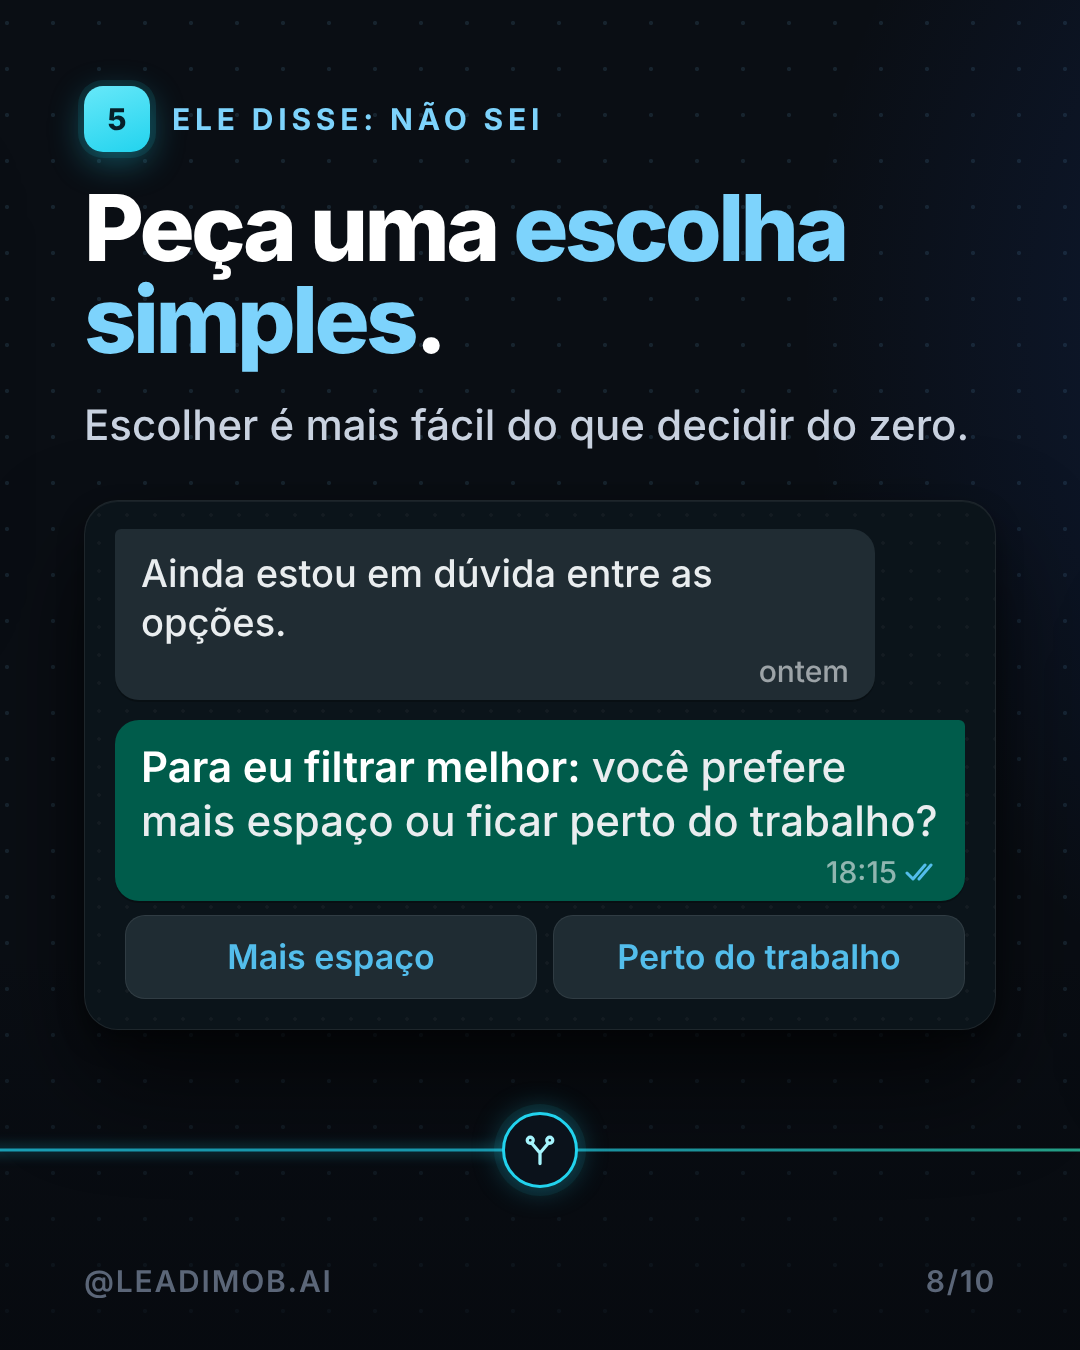
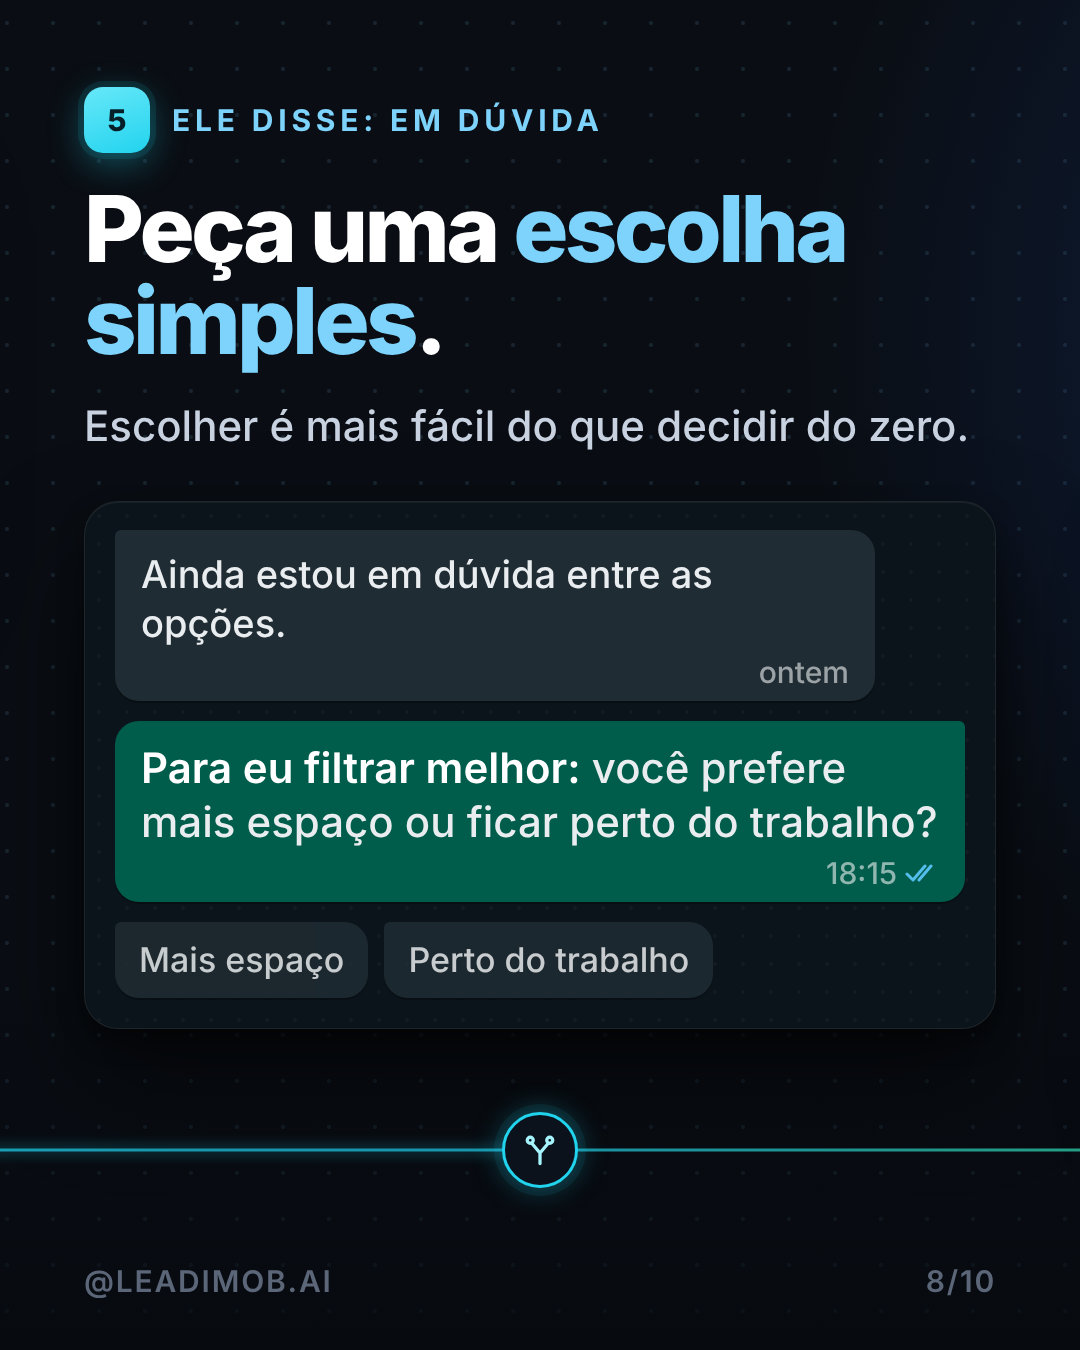
11/10: carrossel polido (em crítica final, sem aprovação)
Claude-Session: https://claude.ai/code/session_0145jJKuZvfRBYxMPxCVaBcw

diff --git a/instagram/2026-10-11/src/c1-index.html b/instagram/2026-10-11/src/c1-index.html
@@ -102,9 +102,9 @@ body{background:#0A0E14;width:10800px;height:1350px;overflow:hidden;font-family:
  </div>
  <div class="h1" style="margin-top:64px;font-size:150px;white-space:nowrap">Retome sem<br><span class="hl">cobrar.</span></div>
  <div class="p" style="margin-top:40px;font-size:44px;color:#E2E8F0;max-width:860px">Mensagens para o cliente que sumiu, prontas para adaptar.</div>
- <div style="margin-top:40px;width:800px;margin-left:auto">
-  <div class="bub bout" style="font-size:40px;max-width:820px">Lembrei de você: entrou um apartamento com varanda, do jeito que você pediu. Quer ver?<div class="bt">10:05 <svg class="tk" viewBox="0 0 34 22"><path d="M2 12l6 6L20 4M14 18l12-14" stroke="#53BDEB" stroke-width="3" fill="none" stroke-linecap="round" stroke-linejoin="round"/></svg></div></div>
-  <div class="bub bin" style="font-size:40px;margin-top:18px;margin-left:0">Manda!<div class="bt">10:07</div></div>
+ <div style="margin-top:40px">
+  <div class="bub bout" style="font-size:40px;max-width:800px">Lembrei de você: entrou um apartamento com varanda, do jeito que você pediu. Quer ver?<div class="bt">10:05 <svg class="tk" viewBox="0 0 34 22"><path d="M2 12l6 6L20 4M14 18l12-14" stroke="#53BDEB" stroke-width="3" fill="none" stroke-linecap="round" stroke-linejoin="round"/></svg></div></div>
+  <div class="bub bin" style="font-size:40px;margin-top:18px;margin-left:0">Manda!<div class="bt" style="font-size:30px">10:07</div></div>
  </div>
  <div class="foot"><span>@LEADIMOB.AI</span><span style="color:#7DD3FC">ARRASTE →</span></div></div>
 
@@ -126,11 +126,11 @@ body{background:#0A0E14;width:10800px;height:1350px;overflow:hidden;font-family:
  <div class="p">Algo novo para ele, e uma pergunta fácil de responder.</div>
  <div style="margin-top:50px">
   <div class="ann" style="color:#A5F3FC;margin-left:40px">Motivo novo</div>
-  <div style="width:1px;height:34px;background:#22D3EE;margin:14px 0 0 60px"></div>
+  <div style="position:relative;z-index:3;width:2px;height:96px;background:#22D3EE;margin:14px 0 -62px 96px"></div>
   <div class="wa" style="padding:30px 34px">
-   <div class="bub bout" style="font-size:44px;line-height:1.3;padding:24px 30px 16px;max-width:none;margin-left:0;outline:1px solid rgba(34,211,238,.0)"><span style="box-shadow:inset 0 0 0 0">Consegui a planta do apartamento que você pediu.</span> <span style="color:#fff;font-weight:600">Te mando agora?</span><div class="bt">14:20 <svg class="tk" viewBox="0 0 34 22"><path d="M2 12l6 6L20 4M14 18l12-14" stroke="#53BDEB" stroke-width="3" fill="none" stroke-linecap="round" stroke-linejoin="round"/></svg></div></div>
+   <div class="bub bout" style="font-size:44px;line-height:1.3;padding:24px 30px 16px;max-width:none;margin-left:0;outline:1px solid rgba(34,211,238,.0)"><span style="color:#fff;font-weight:600">Consegui a planta do apartamento que você pediu.</span> Te mando agora?<div class="bt">14:20 <svg class="tk" viewBox="0 0 34 22"><path d="M2 12l6 6L20 4M14 18l12-14" stroke="#53BDEB" stroke-width="3" fill="none" stroke-linecap="round" stroke-linejoin="round"/></svg></div></div>
   </div>
-  <div style="width:1px;height:34px;background:rgba(201,210,224,.6);margin:0 80px 14px auto"></div>
+  <div id="pqline" style="position:relative;z-index:3;width:2px;height:124px;background:rgba(201,210,224,.7);margin:-90px 300px 14px auto"></div>
   <div class="ann" style="color:#C9D2E0;justify-content:flex-end;margin-right:40px">Pergunta fácil</div>
  </div>
  <div class="foot"><span>@LEADIMOB.AI</span><span>3/10</span></div></div>
@@ -181,21 +181,22 @@ body{background:#0A0E14;width:10800px;height:1350px;overflow:hidden;font-family:
 
 <!-- 8 retomada 5 -->
 <div class="sl" style="left:7560px">
- <div class="ttl"><div class="num">5</div><div class="kick">Ele disse: não sei</div></div>
+ <div class="ttl"><div class="num">5</div><div class="kick">Ele disse: em dúvida</div></div>
  <div class="h2">Peça uma <span class='hl'>escolha simples</span>.</div>
  <div class="p">Escolher é mais fácil do que decidir do zero.</div>
  <div class="wa conv">
   <div class="bub bin">Ainda estou em dúvida entre as opções.<div class="bt">ontem</div></div>
-  <div class="bub bout"><span class='mv'>Para eu filtrar melhor:</span> você prefere mais espaço ou ficar perto do trabalho?<div class="bt">18:15 <svg class="tk" viewBox="0 0 34 22"><path d="M2 12l6 6L20 4M14 18l12-14" stroke="#53BDEB" stroke-width="3" fill="none" stroke-linecap="round" stroke-linejoin="round"/></svg></div></div><div class='qr'><div class='rb'>Mais espaço</div><div class='rb'>Perto do trabalho</div></div>
+  <div class="bub bout"><span class='mv'>Para eu filtrar melhor:</span> você prefere mais espaço ou ficar perto do trabalho?<div class="bt">18:15 <svg class="tk" viewBox="0 0 34 22"><path d="M2 12l6 6L20 4M14 18l12-14" stroke="#53BDEB" stroke-width="3" fill="none" stroke-linecap="round" stroke-linejoin="round"/></svg></div></div><div style='display:flex;gap:16px;margin-top:20px'><div class='bub bin' style='font-size:34px;padding:16px 24px;opacity:.85'>Mais espaço</div><div class='bub bin' style='font-size:34px;padding:16px 24px;opacity:.85'>Perto do trabalho</div></div>
  </div>
  <div class="foot"><span>@LEADIMOB.AI</span><span>8/10</span></div></div>
 <!-- 9 Leadimob -->
 <div class="sl" style="left:8640px">
  <div class="ttl"><div class="num"><svg width="34" height="34" viewBox="0 0 24 24"><path d="M12 3c5 0 9 3.600 9 8.200S17 19.500 12 19.500c-1 0-2-.15-2.900-.42L4.500 21l1.200-3.900C4 15.600 3 13.500 3 11.200 3 6.600 7 3 12 3z" fill="#06202A"/></svg></div><div class="kick">Onde a Leadimob entra</div></div>
  <div class="h2">A Leadimob retoma <span style="color:#6EE7B7">com contexto</span>.</div>
- <div class="p">No seu WhatsApp, com o que o cliente pediu. Quando ele responde, você assume.</div>
- <div class="wa chat"><div class="hd"><div class="lab" style="color:#6EE7B7"><i style="width:14px;height:14px;border-radius:50%;background:#34D399;display:block"></i>Follow-up</div><div class="st" style="display:flex;gap:14px"><span class="chip nt" style="padding:12px 20px">3 quartos</span><span class="chip nt" style="padding:12px 20px">Perto da escola</span></div></div><div class="bx">
-  <div class="bub bout">Oi, Marina! Separei no catálogo uma casa com quintal perto da escola. Quer agendar uma visita?<div class="bt">09:40 <svg class="tk" viewBox="0 0 34 22"><path d="M2 12l6 6L20 4M14 18l12-14" stroke="#53BDEB" stroke-width="3" fill="none" stroke-linecap="round" stroke-linejoin="round"/></svg></div></div>
+ <div class="p" style="margin-top:22px">No seu WhatsApp. Quando o cliente responde, você assume.</div>
+ <div class="wa chat" style="margin-top:40px"><div class="hd"><div class="lab" style="color:#6EE7B7"><i style="width:14px;height:14px;border-radius:50%;background:#34D399;display:block"></i>Follow-up</div><div class="st" style="display:flex;gap:14px"><span class="chip nt" style="padding:12px 20px">Quintal</span><span class="chip nt" style="padding:12px 20px">Perto da escola</span></div></div><div class="bx">
+  <div class="bub bin" style="font-size:36px;padding:18px 24px 12px;margin-bottom:20px">Precisa ser perto da escola.<div class="bt">há 6 dias</div></div>
+  <div class="bub bout">Oi, Marina! Separei no catálogo uma casa com quintal perto da escola. Quer visitar?<div class="bt">09:40 <svg class="tk" viewBox="0 0 34 22"><path d="M2 12l6 6L20 4M14 18l12-14" stroke="#53BDEB" stroke-width="3" fill="none" stroke-linecap="round" stroke-linejoin="round"/></svg></div></div>
  </div></div>
  <div class="foot"><span>@LEADIMOB.AI</span><span>9/10</span></div></div>
 

diff --git a/instagram/2026-10-11/carrossel/carrossel-editor.html b/instagram/2026-10-11/carrossel/carrossel-editor.html
@@ -312,7 +312,7 @@ input[type=range]{width:100%;accent-color:#6C5CE7;height:18px;cursor:pointer;}
     </div>
   </div>
 </div>
-<script id="deck-data" type="application/json">{"kit": "tech", "formato": "4:5", "paleta": {"bg": "#0A0E14", "fg": "#FFFFFF", "muted": "#8A93A3", "accent": "#22D3EE", "surface": "#141B28", "cream": "#F3F7FB"}, "handle": "@leadimob.ai", "slides": [{"tipo": "capa", "kicker": "RETOMADA · SALVE ESTE POST", "titulo": "Retome sem cobrar.", "sub": "Mensagens para o cliente que sumiu, prontas para adaptar."}, {"tipo": "conteudo", "kicker": "O QUE EVITAR", "titulo": "Cobrar resposta vira silêncio.", "sub": "Mensagem que só pede retorno não dá motivo para responder."}, {"tipo": "conteudo", "kicker": "A REGRA", "titulo": "Volte com um motivo.", "sub": "Consegui a planta do apartamento que você pediu. Te mando agora?"}, {"tipo": "conteudo", "kicker": "ELE DISSE: ESCOLA", "titulo": "Mostre uma opção que bate com o pedido.", "sub": "Achei uma casa na mesma rua da escola. Quer ver por dentro?"}, {"tipo": "conteudo", "kicker": "ELE DISSE: O BAIRRO", "titulo": "Conte uma novidade do bairro.", "sub": "Abriram um mercado e uma padaria na rua do apartamento. Quer passar lá de novo?"}, {"tipo": "conteudo", "kicker": "ELE DISSE: SEM TEMPO", "titulo": "Ofereça um horário livre.", "sub": "Reservei um horário depois do seu trabalho. Pode ser? Quinta · 18:30"}, {"tipo": "conteudo", "kicker": "ELE PERGUNTOU: PET", "titulo": "Traga a resposta da dúvida que ficou.", "sub": "Confirmei com o síndico: aceita, sim. Quer ver a área de lazer na visita?"}, {"tipo": "conteudo", "kicker": "ELE DISSE: NÃO SEI", "titulo": "Peça uma escolha simples.", "sub": "Para eu filtrar melhor: você prefere mais espaço ou ficar perto do trabalho?"}, {"tipo": "conteudo", "kicker": "ONDE A LEADIMOB ENTRA", "titulo": "A Leadimob retoma com contexto.", "sub": "No seu WhatsApp, com o que o cliente pediu. Quando ele responde, você assume."}, {"tipo": "cta", "titulo": "Qual retomada funciona com os seus clientes?", "acao": "Comente RETOMADA", "sub": "E conte qual mensagem você usa para voltar a conversar. Solicite uma demonstração — link na bio."}]}</script>
+<script id="deck-data" type="application/json">{"kit": "tech", "formato": "4:5", "paleta": {"bg": "#0A0E14", "fg": "#FFFFFF", "muted": "#8A93A3", "accent": "#22D3EE", "surface": "#141B28", "cream": "#F3F7FB"}, "handle": "@leadimob.ai", "slides": [{"tipo": "capa", "kicker": "RETOMADA · SALVE ESTE POST", "titulo": "Retome sem cobrar.", "sub": "Mensagens para o cliente que sumiu, prontas para adaptar."}, {"tipo": "conteudo", "kicker": "O QUE EVITAR", "titulo": "Cobrar resposta vira silêncio.", "sub": "Mensagem que só pede retorno não dá motivo para responder."}, {"tipo": "conteudo", "kicker": "A REGRA", "titulo": "Volte com um motivo.", "sub": "Consegui a planta do apartamento que você pediu. Te mando agora?"}, {"tipo": "conteudo", "kicker": "ELE DISSE: ESCOLA", "titulo": "Mostre uma opção que bate com o pedido.", "sub": "Achei uma casa na mesma rua da escola. Quer ver por dentro?"}, {"tipo": "conteudo", "kicker": "ELE DISSE: O BAIRRO", "titulo": "Conte uma novidade do bairro.", "sub": "Abriram um mercado e uma padaria na rua do apartamento. Quer passar lá de novo?"}, {"tipo": "conteudo", "kicker": "ELE DISSE: SEM TEMPO", "titulo": "Ofereça um horário livre.", "sub": "Reservei um horário depois do seu trabalho. Pode ser? Quinta · 18:30"}, {"tipo": "conteudo", "kicker": "ELE PERGUNTOU: PET", "titulo": "Traga a resposta da dúvida que ficou.", "sub": "Confirmei com o síndico: aceita, sim. Quer ver a área de lazer na visita?"}, {"tipo": "conteudo", "kicker": "ELE DISSE: EM DÚVIDA", "titulo": "Peça uma escolha simples.", "sub": "Para eu filtrar melhor: você prefere mais espaço ou ficar perto do trabalho?"}, {"tipo": "conteudo", "kicker": "ONDE A LEADIMOB ENTRA", "titulo": "A Leadimob retoma com contexto.", "sub": "No seu WhatsApp. Quando o cliente responde, você assume."}, {"tipo": "cta", "titulo": "Qual retomada funciona com os seus clientes?", "acao": "Comente RETOMADA", "sub": "E conte qual mensagem você usa para voltar a conversar. Solicite uma demonstração — link na bio."}]}</script>
 <script>
 const KITS = {
   "editorial":     {disp:"Anton", body:"Inter", mono:"JetBrains Mono", serif:"Instrument Serif",
